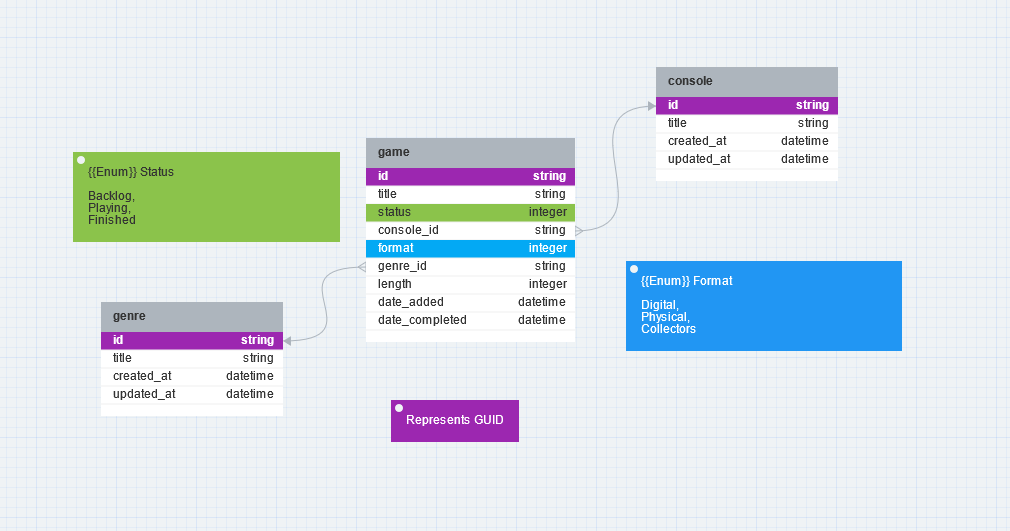
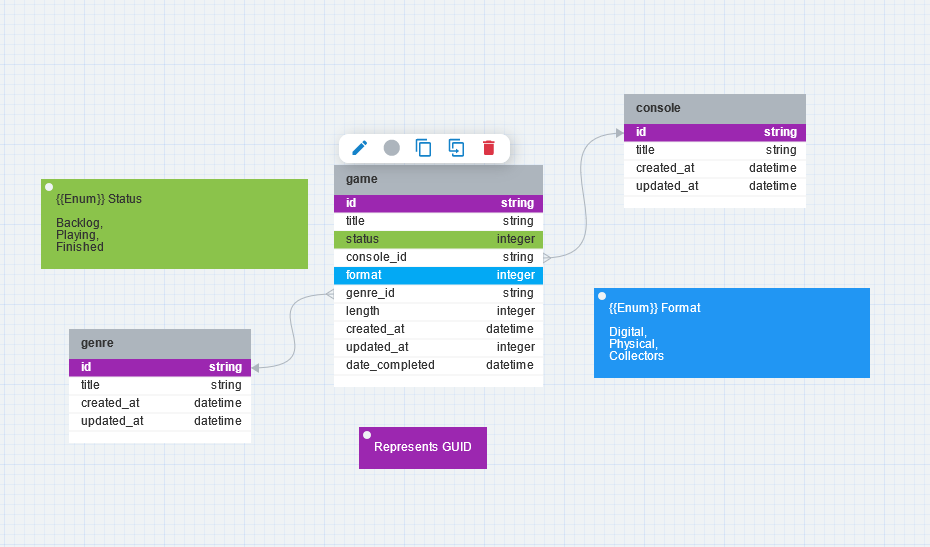
Feature/OGLM-12 Add Created/Updated At Timestamps to Games (#16)
* spec and erd

* migration

diff --git a/OmniGLM-API/Models/Game.cs b/OmniGLM-API/Models/Game.cs
@@ -12,7 +12,8 @@ namespace OmniGLM_API.Models
         public Format Format { get; set; }
         public virtual Genre Genre { get; set; }
         public int Length { get; set; }
-        public DateTime DateAdded { get; set; } = DateTime.Now;
+        public DateTime CreatedAt { get; set; } = DateTime.Now;
+        public DateTime? UpdatedAt { get; set; }
         public DateTime? DateCompleted { get; set; }
     }
 
@@ -28,7 +29,8 @@ namespace OmniGLM_API.Models
         [JsonConverter(typeof(JsonStringEnumConverter))]
         public Format Format { get; set; }
         public int Length { get; set; }
-        public DateTime DateAdded { get; set; }
+        public DateTime CreatedAt { get; set; }
+        public DateTime? UpdatedAt { get; set; }
         public DateTime? DateCompleted { get; set; }
 
         public GameViewModel(Game g)
@@ -39,7 +41,8 @@ namespace OmniGLM_API.Models
             Console = g.Console.Title;
             Format = g.Format;
             Length = g.Length;
-            DateAdded = g.DateAdded;
+            CreatedAt = g.CreatedAt;
+            UpdatedAt = g.UpdatedAt;
             DateCompleted = g.DateCompleted;
         }
     }

diff --git a/OmniGLM-API/Migrations/20240225131151_AddTimestampsForGames.cs b/OmniGLM-API/Migrations/20240225131151_AddTimestampsForGames.cs
@@ -1,0 +1,39 @@
+using System;
+using Microsoft.EntityFrameworkCore.Migrations;
+
+#nullable disable
+
+namespace OmniGLM_API.Migrations
+{
+    /// <inheritdoc />
+    public partial class AddTimestampsForGames : Migration
+    {
+        /// <inheritdoc />
+        protected override void Up(MigrationBuilder migrationBuilder)
+        {
+            migrationBuilder.RenameColumn(
+                name: "date_added",
+                table: "games",
+                newName: "created_at");
+
+            migrationBuilder.AddColumn<DateTime>(
+                name: "updated_at",
+                table: "games",
+                type: "timestamp with time zone",
+                nullable: true);
+        }
+
+        /// <inheritdoc />
+        protected override void Down(MigrationBuilder migrationBuilder)
+        {
+            migrationBuilder.DropColumn(
+                name: "updated_at",
+                table: "games");
+
+            migrationBuilder.RenameColumn(
+                name: "created_at",
+                table: "games",
+                newName: "date_added");
+        }
+    }
+}

diff --git a/OmniGLM-API/Migrations/20240225131151_AddTimestampsForGames.Designer.cs b/OmniGLM-API/Migrations/20240225131151_AddTimestampsForGames.Designer.cs
@@ -2,6 +2,7 @@
 using System;
 using Microsoft.EntityFrameworkCore;
 using Microsoft.EntityFrameworkCore.Infrastructure;
+using Microsoft.EntityFrameworkCore.Migrations;
 using Microsoft.EntityFrameworkCore.Storage.ValueConversion;
 using Npgsql.EntityFrameworkCore.PostgreSQL.Metadata;
 using OmniGLM_API.db;
@@ -11,9 +12,11 @@ using OmniGLM_API.db;
 namespace OmniGLM_API.Migrations
 {
     [DbContext(typeof(ApplicationContext))]
-    partial class ApplicationContextModelSnapshot : ModelSnapshot
+    [Migration("20240225131151_AddTimestampsForGames")]
+    partial class AddTimestampsForGames
     {
-        protected override void BuildModel(ModelBuilder modelBuilder)
+        /// <inheritdoc />
+        protected override void BuildTargetModel(ModelBuilder modelBuilder)
         {
 #pragma warning disable 612, 618
             modelBuilder

diff --git a/OmniGLM-API/Documentation/Spec/LibraryRoutes.md b/OmniGLM-API/Documentation/Spec/LibraryRoutes.md
@@ -37,7 +37,8 @@ GET /library
                     "genreName": "Japanese RPG"
                 },
                 "length": 80,
-                "dateAdded": "2012-03-03T01:00:00Z",
+                "createdAt": "2012-03-03T01:00:00Z",
+                "updatedAt": null,
                 "dateCompleted": "2012-08-19T01:00:00Z"
             },
             {
@@ -54,7 +55,8 @@ GET /library
                     "genreName": "Japanese RPG"
                 },
                 "length": 53,
-                "dateAdded": "2022-07-26T01:00:00Z",
+                "createdAt": "2022-07-26T01:00:00Z",
+                "updatedAt": null,
                 "dateCompleted": null
             },
             {
@@ -71,7 +73,8 @@ GET /library
                     "genreName": "Puzzle"
                 },
                 "length": 18,
-                "dateAdded": "2022-07-26T01:00:00Z",
+                "createdAt": "2022-07-26T01:00:00Z",
+                "updatedAt": "2022-09-30T01:00:00Z",
                 "dateCompleted": null
             }
         ]
@@ -99,7 +102,8 @@ GET /library
         "format": "collectors",
         "genre": "Japanese RPG",
         "length": 80,
-        "dateAdded": "2012-03-03T01:00:00Z",
+        "createdAt": "2012-03-03T01:00:00Z",
+        "updatedAt": "2022-09-30T01:00:00Z",
         "dateCompleted": "2012-08-19T01:00:00Z"
     }
 }

diff --git a/OmniGLM-API/Documentation/Spec/APISpec.md b/OmniGLM-API/Documentation/Spec/APISpec.md
@@ -27,7 +27,8 @@ console_id : GUID (FK Console)
 format : Int (Enum Value)
 genre_id : GUID (FK Genre)
 length : Int
-date_added : DateTime
+created_at : DateTime
+updated_at : DateTime
 date_completed : DateTime
 ```
 
@@ -35,12 +36,16 @@ date_completed : DateTime
 ```
 id : GUID (PK)
 title : String
+created_at : DateTime
+updated_at : DateTime
 ```
 
 ### Console:
 ```
 id : GUID (PK)
 title : String
+created_at : DateTime
+updated_at : DateTime
 ```
 
 ## Data Models
@@ -55,20 +60,25 @@ Console : Console
 Format : Format
 Genre : Genre
 Length : Int
-DateAdded : DateTime
-DateCompleted? : DateTime
+CreatedAt : DateTime
+UpdatedAt : DateTime?
+DateCompleted : DateTime?
 ```
 
 ### Genre:
 ```
 Id : GUID 
 Title : String
+CreatedAt : DateTime
+UpdatedAt : DateTime?
 ```
 
 ### Console:
 ```
 Id : GUID 
 title : String
+CreatedAt : DateTime
+UpdatedAt : DateTime?
 ```
 
 ### Enum Status
